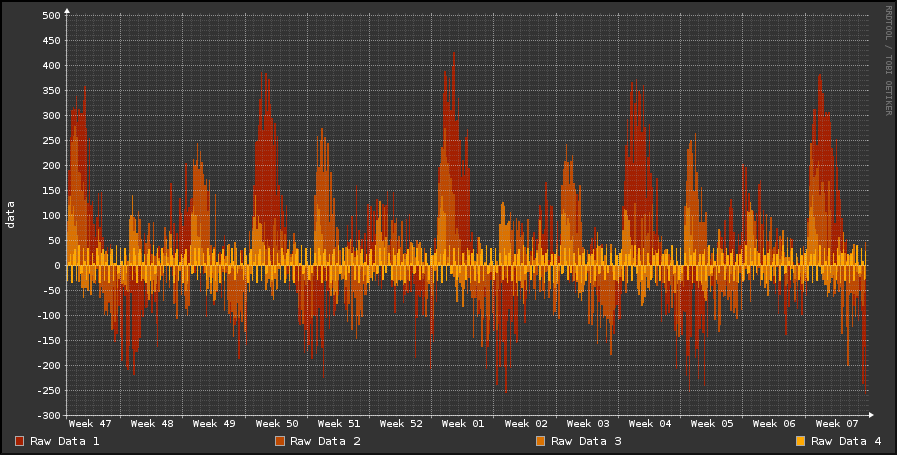
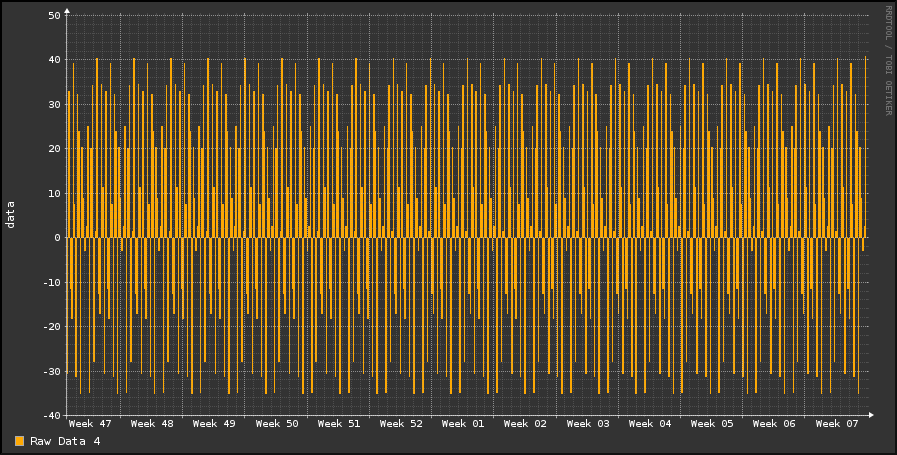
tempsave

diff --git a/powerdogGraph.py b/powerdogGraph.py
@@ -29,10 +29,11 @@ maxSteps = int((endTime-startTime)/step)
 # Let's create and RRD file and dump some data in it
 dss = []
 ds1 = DS(dsName='speed', dsType='GAUGE', heartbeat=900)
-ds2 = DS(dsName='silliness', dsType='GAUGE', heartbeat=900)
-ds3 = DS(dsName='insanity', dsType='GAUGE', heartbeat=900)
-ds4 = DS(dsName='dementia', dsType='GAUGE', heartbeat=900)
-dss.extend([ds1, ds2, ds3, ds4])
+#ds2 = DS(dsName='silliness', dsType='GAUGE', heartbeat=900)
+#ds3 = DS(dsName='insanity', dsType='GAUGE', heartbeat=900)
+#ds4 = DS(dsName='dementia', dsType='GAUGE', heartbeat=900)
+#dss.extend([ds1, ds2, ds3, ds4])
+dss.append(ds1)
 
 rras = []
 rra1 = RRA(cf='AVERAGE', xff=0.5, steps=24, rows=1460)
@@ -50,26 +51,26 @@ for i in xrange(maxSteps):
         myRRD.update(debug=False)
     # let's do two different sets of periodic values
     value1 = int(sin(i % 200) * 1000)
-    value2 = int(sin( (i % 2000)/(200*random()) ) * 200)
-    value3 = int(sin( (i % 4000)/(400*random()) ) * 400)
-    value4 = int(sin( (i % 6000)/(600*random()) ) * 600)
+    #value2 = int(sin( (i % 2000)/(200*random()) ) * 200)
+    #value3 = int(sin( (i % 4000)/(400*random()) ) * 400)
+    #value4 = int(sin( (i % 6000)/(600*random()) ) * 600)
     # when you pass more than one value to update buffer like this,
     # they get applied to the DSs in the order that the DSs were
     # "defined" or added to the RRD object.
-    myRRD.bufferValue(currentTime, value1, value2, value3, value4)
+    myRRD.bufferValue(currentTime, value1)
 # add anything remaining in the buffer
 myRRD.update()
 
 # Let's set up the objects that will be added to the graph
 def1 = DEF(rrdfile=myRRD.filename, vname='myspeed', dsName=ds1.name)
-def2 = DEF(rrdfile=myRRD.filename, vname='mysilliness', dsName=ds2.name)
-def3 = DEF(rrdfile=myRRD.filename, vname='myinsanity', dsName=ds3.name)
-def4 = DEF(rrdfile=myRRD.filename, vname='mydementia', dsName=ds4.name)
+#def2 = DEF(rrdfile=myRRD.filename, vname='mysilliness', dsName=ds2.name)
+#def3 = DEF(rrdfile=myRRD.filename, vname='myinsanity', dsName=ds3.name)
+#def4 = DEF(rrdfile=myRRD.filename, vname='mydementia', dsName=ds4.name)
 vdef1 = VDEF(vname='myavg', rpn='%s,AVERAGE' % def1.vname)
 area1 = AREA(defObj=def1, color='#FFA902', legend='Raw Data 4')
-area2 = AREA(defObj=def2, color='#DA7202', legend='Raw Data 3')
-area3 = AREA(defObj=def3, color='#BD4902', legend='Raw Data 2')
-area4 = AREA(defObj=def4, color='#A32001', legend='Raw Data 1')
+#area2 = AREA(defObj=def2, color='#DA7202', legend='Raw Data 3')
+#area3 = AREA(defObj=def3, color='#BD4902', legend='Raw Data 2')
+#area4 = AREA(defObj=def4, color='#A32001', legend='Raw Data 1')
 line1 = LINE(defObj=vdef1, color='#01FF13', legend='Average', stack=True)
 
 # Let's configure some custom colors for the graph
@@ -87,7 +88,8 @@ ca.arrow = '#FFFFFF'
 # Now that we've got everything set up, let's make a graph
 startTime = endTime - 3 * month
 g = Graph(graphfile, start=startTime, end=endTime, vertical_label='data', color=ca)
-g.data.extend([def1, def2, def3, def4, vdef1, area4, area3, area2, area1])
+#g.data.extend([def1, def2, def3, def4, vdef1, area4, area3, area2, area1])
+g.data.extend([def1, vdef1, area1])
 g.write()
 
 g.filename = graphfileLg
